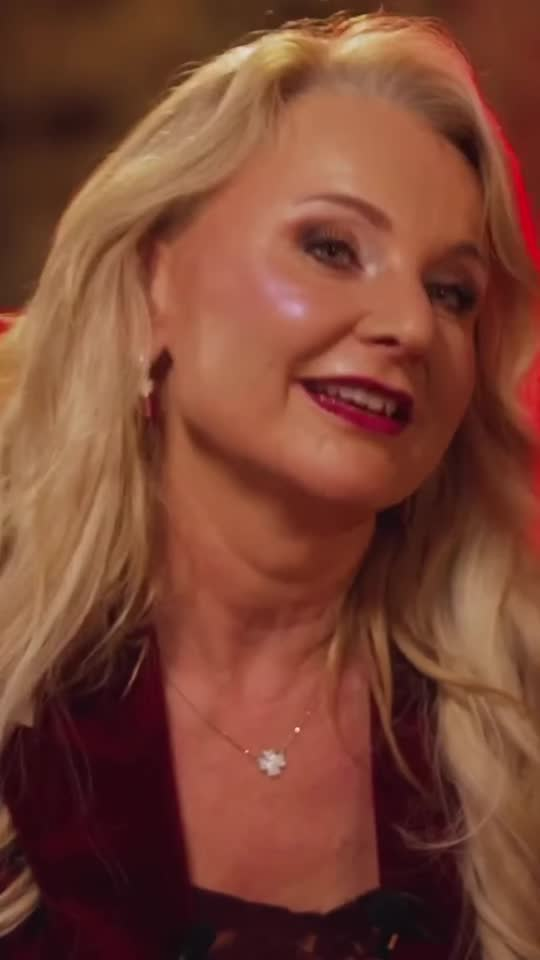
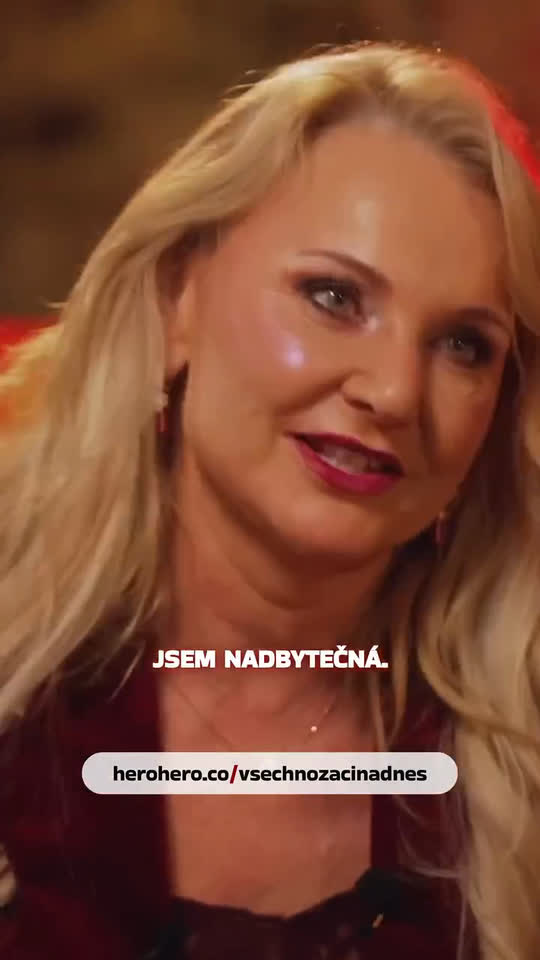
Věřin příběh: poster se záběrem „Jsem nadbytečná.“ a poloviční karta
Poster z 27,2 s (titulek „Jsem nadbytečná.“), karta 9:16 v poloviční velikosti
(max 11 rem) bez ořezu titulku, menší tlačítko přehrát, aktualizovaný CSP hash.

Claude-Session: https://claude.ai/code/session_01Dwj5RM4fZPc4gJhhiqgGru

diff --git a/src/site.css b/src/site.css
@@ -478,14 +478,14 @@ body[data-page="phase1"] .main a.vera-cta:hover{background:#9F0842}
 }
 
 /* Věřin příběh: video karta na úvodní straně, celoobrazovkový přehrávač, přehrávač na samostatné stránce */
-.vid{position:relative;display:block;width:100%;max-width:22rem;aspect-ratio:4/5;margin:.4rem 0 0;border-radius:.7rem;overflow:hidden;background:var(--ink);box-shadow:0 10px 28px rgba(58,11,34,.18);-webkit-tap-highlight-color:transparent;touch-action:manipulation}
-.vid img{position:absolute;inset:0;width:100%;height:100%;object-fit:cover;object-position:50% 30%;display:block}
-.vid::after{content:"";position:absolute;left:0;right:0;bottom:0;height:42%;background:linear-gradient(to top,rgba(36,6,20,.78),rgba(36,6,20,0))}
-.vid-play{position:absolute;z-index:1;left:50%;top:50%;width:4.5rem;height:4.5rem;margin:-2.25rem 0 0 -2.25rem;border-radius:50%;background:var(--magenta-deep);display:grid;place-items:center;box-shadow:0 0 0 .5rem rgba(255,255,255,.28)}
-.vid-play svg{width:2rem;height:2rem;fill:#fff;margin-left:.2rem}
-.vid-meta{position:absolute;z-index:1;left:1rem;right:1rem;bottom:.9rem;color:#fff;font-weight:700;font-size:1.1rem;letter-spacing:.01em}
+.vid{position:relative;display:block;width:100%;max-width:11rem;aspect-ratio:9/16;margin:.4rem 0 0;border-radius:.7rem;overflow:hidden;background:var(--ink);box-shadow:0 10px 28px rgba(58,11,34,.18);-webkit-tap-highlight-color:transparent;touch-action:manipulation}
+.vid img{position:absolute;inset:0;width:100%;height:100%;object-fit:cover;object-position:50% 50%;display:block}
+.vid::after{content:"";position:absolute;left:0;right:0;bottom:0;height:22%;background:linear-gradient(to top,rgba(36,6,20,.6),rgba(36,6,20,0))}
+.vid-play{position:absolute;z-index:1;left:50%;top:38%;width:3rem;height:3rem;margin:-1.5rem 0 0 -1.5rem;border-radius:50%;background:var(--magenta-deep);display:grid;place-items:center;box-shadow:0 0 0 .3rem rgba(255,255,255,.28)}
+.vid-play svg{width:1.4rem;height:1.4rem;fill:#fff;margin-left:.2rem}
+.vid-meta{position:absolute;z-index:1;left:1rem;right:1rem;bottom:.6rem;color:#fff;font-weight:700;font-size:.85rem;letter-spacing:.01em}
 body[data-page="phase1"] .main a.vid,
-body[data-page="phase1"] .main a.vid:hover{display:block;min-height:0;color:#fff}
+body[data-page="phase1"] .main a.vid:hover{display:block;min-height:0;max-width:11rem;color:#fff}
 body[data-page="phase1"] .main a.vid:hover .vid-play{background:#9F0842}
 .vid-page{margin:1rem 0 1.25rem}
 .vid-page video{display:block;height:min(80vh,38rem);height:min(80svh,38rem);width:auto;max-width:100%;aspect-ratio:9/16;border-radius:.7rem;background:var(--ink);box-shadow:0 10px 28px rgba(58,11,34,.18)}
